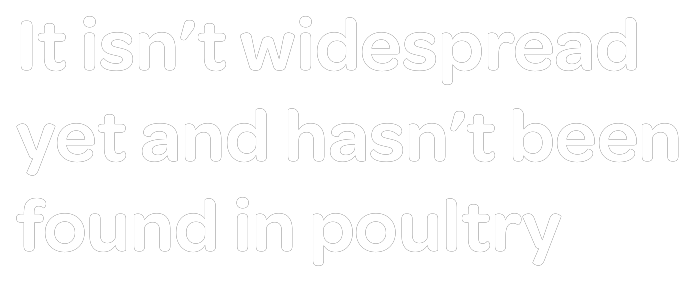
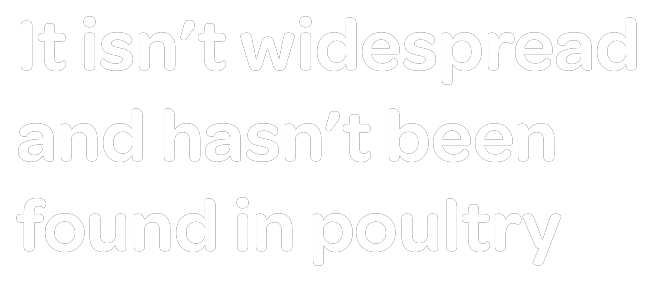
Remove 'yet' from frame 3 copy per client feedback

diff --git a/index.html b/index.html
@@ -72,7 +72,7 @@
   .birds    { left: 43.33px; top: 93.33px; width: 256.67px; height: 170px; }
   .headline { left: 7.33px;  top: 22px;    width: 229.33px; height: 97px; transform-origin: left center; }
   .text2    { left: 10.33px; top: 68.33px; width: 197.67px; height: 89.33px; }
-  .text3    { left: 9.67px;  top: 68.33px; width: 231.67px; height: 94px; }
+  .text3    { left: 9.67px;  top: 68.33px; width: 217.67px; height: 94px; }
   .text4    { left: 11px;    top: 68.33px; width: 220.33px; height: 64px; }
   .card     { left: 82.21px; top: 44.65px; width: 135.59px; height: 131.68px; }
   .cta      { left: 89.84px; top: 172px;   width: 120.33px; height: 30px; }
@@ -156,7 +156,7 @@
 
     <div class="frame" id="frame3">
       <img class="bg" src="images/bg-feather.jpg" alt="">
-      <img class="static-el text3" src="images/el-frame3_text.png" alt="It isn't widespread yet and hasn't been found in poultry">
+      <img class="static-el text3" src="images/el-frame3_text.png" alt="It isn't widespread and hasn't been found in poultry">
     </div>
 
     <div class="frame" id="frame4">